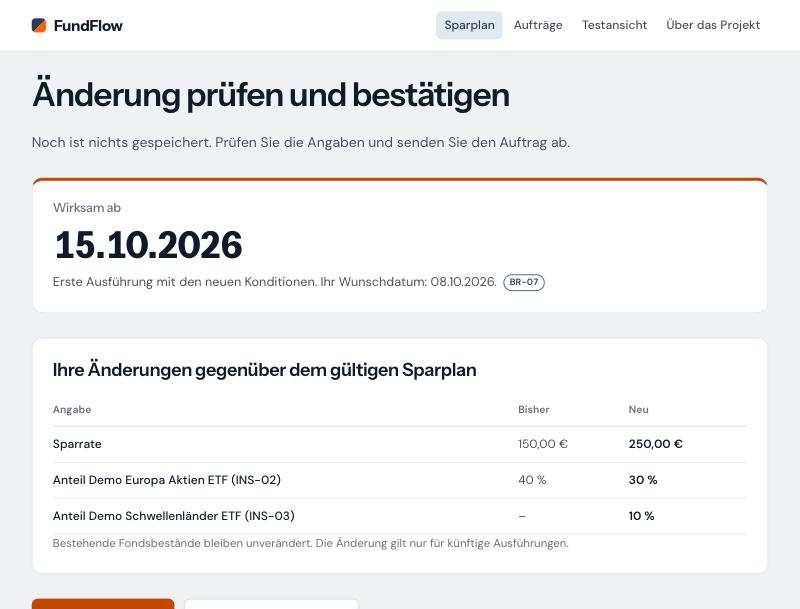
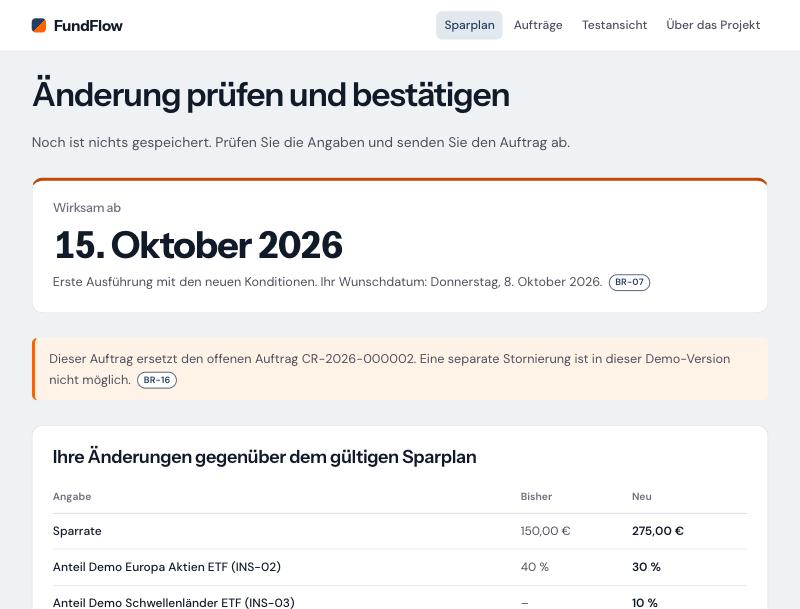
Datum zusätzlich ausgeschrieben anzeigen
Das Datumsfeld zeigt das Format der Browsersprache (z. B. 10/08/2026).
Damit Tag und Monat nicht verwechselt werden:
- unter dem Datumsfeld „Donnerstag, 8. Oktober 2026“, aktualisiert bei
  jeder Eingabe
- in Zusammenfassung, Bestätigung und Sparplanhinweis ausgeschrieben
  („15. Oktober 2026“)

diff --git a/src/FundFlow.Web/wwwroot/js/allocation.js b/src/FundFlow.Web/wwwroot/js/allocation.js
@@ -70,6 +70,15 @@
 
   list.addEventListener("input", updateSum);
 
+  // Datum unter dem Datumsfeld ausschreiben – das Feld selbst zeigt das Format der Browsersprache.
+  const dateInput = document.querySelector("[data-date-input]");
+  const dateLong = document.querySelector("[data-date-long]");
+  const longFormat = new Intl.DateTimeFormat("de-DE", { weekday: "long", day: "numeric", month: "long", year: "numeric", timeZone: "UTC" });
+  dateInput?.addEventListener("input", () => {
+    const value = dateInput.valueAsDate;
+    dateLong.textContent = value ? longFormat.format(value) : "";
+  });
+
   document.querySelector("[data-focus-on-load]")?.focus();
   reindex();
   updateSum();

diff --git a/src/FundFlow.Web/wwwroot/css/site.css b/src/FundFlow.Web/wwwroot/css/site.css
@@ -265,6 +265,7 @@ strong { color: var(--ink); font-weight: 600; }
 .form-grid { display: grid; grid-template-columns: repeat(3, minmax(0, 1fr)); gap: 20px 24px; }
 .field label, .allocations legend { display: block; font-weight: 600; color: var(--ink); margin-bottom: 6px; }
 .help { font-size: 0.85rem; color: var(--muted); margin: 6px 0 0; }
+.date-long { margin: 6px 0 0; font-weight: 600; color: var(--ink); min-height: 1.6em; }
 
 input, select {
     width: 100%; min-height: 44px; padding: 9px 12px;

diff --git a/tests/FundFlow.Tests/Web/ChangeFlowTests.cs b/tests/FundFlow.Tests/Web/ChangeFlowTests.cs
@@ -16,7 +16,8 @@ public sealed class ChangeFlowTests(FundFlowWebFactory factory) : IClassFixture<
         // Schritte 4 und 5: prüfen und Zusammenfassung
         var review = await PostAsync(client, $"{ChangeUrl}?handler=Check", token, ChangeFields(amount: "250,00"));
         Assert.Contains("Änderung prüfen und bestätigen", review.Html);
-        Assert.Contains("15.10.2026", review.Html);
+        Assert.Contains("15. Oktober 2026", review.Html);
+        Assert.Contains("Ihr Wunschdatum: Donnerstag, 8. Oktober 2026", review.Html);
         Assert.Contains("150,00 €", review.Html);
         Assert.Contains("250,00 €", review.Html);
 
@@ -76,7 +77,7 @@ public sealed class ChangeFlowTests(FundFlowWebFactory factory) : IClassFixture<
         var result = await PostAsync(client, $"{ChangeUrl}?handler=Submit", token, fields);
 
         Assert.Contains("Der Wirksamkeitstermin hat sich seit Ihrer letzten Prüfung geändert", result.Html);
-        Assert.Contains("15.10.2026", result.Html);
+        Assert.Contains("15. Oktober 2026", result.Html);
         Assert.Contains("Noch keine Aufträge", await client.GetStringAsync("/auftraege"));
     }
 

diff --git a/src/FundFlow.Web/Demo/Display.cs b/src/FundFlow.Web/Demo/Display.cs
@@ -37,6 +37,12 @@ public static partial class Display
 
     public static string Date(DateOnly date) => date.ToString("dd.MM.yyyy", German);
 
+    /// <summary>Ausgeschriebenes Datum wie „8. Oktober 2026“ – unverwechselbar, unabhängig von der Browsersprache.</summary>
+    public static string LongDate(DateOnly date) => date.ToString("d. MMMM yyyy", German);
+
+    /// <summary>Ausgeschriebenes Datum mit Wochentag wie „Donnerstag, 8. Oktober 2026“.</summary>
+    public static string LongDateWithWeekday(DateOnly date) => date.ToString("dddd, d. MMMM yyyy", German);
+
     public static string DateTime(DateTimeOffset utc) =>
         TimeZoneInfo.ConvertTime(utc, BusinessCalendar.BerlinTimeZone).ToString("dd.MM.yyyy, HH:mm 'Uhr'", German);
 

diff --git a/src/FundFlow.Web/Pages/Sparplan/Aendern.cshtml.cs b/src/FundFlow.Web/Pages/Sparplan/Aendern.cshtml.cs
@@ -44,6 +44,9 @@ public class AendernModel(ChangeRequestService orders) : DemoPageModel
 
     public string? OpenRequestNumber => State.OpenRequest?.RequestNumber;
 
+    /// <summary>Wunschdatum aus dem Formular, falls lesbar – für die ausgeschriebene Anzeige unter dem Feld.</summary>
+    public DateOnly? RequestedFromDate => InputParser.TryParseDate(Form.RequestedFrom, out var date) ? date : null;
+
     /// <summary>Schritt 2: Startwerte aus dem offenen Auftrag, sonst aus der gültigen Version.</summary>
     public async Task OnGetAsync(CancellationToken cancellationToken)
     {

diff --git a/tests/FundFlow.Tests/Web/SmokeTests.cs b/tests/FundFlow.Tests/Web/SmokeTests.cs
@@ -8,7 +8,7 @@ public sealed class SmokeTests(FundFlowWebFactory factory) : IClassFixture<FundF
     [Theory]
     [InlineData("/", "Keine Anlageberatung")]
     [InlineData("/sparplan", "Sparplan SP-000001")]
-    [InlineData("/sparplan/aendern", "Sparplan ändern")]
+    [InlineData("/sparplan/aendern", "Donnerstag, 8. Oktober 2026")]
     [InlineData("/auftraege", "Noch keine Aufträge")]
     [InlineData("/testansicht", "30</span> von 30 Testfällen erfüllt")]
     [InlineData("/ueber", "Über das Projekt")]
